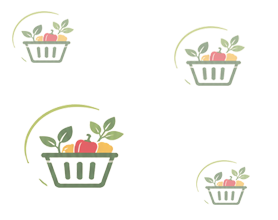
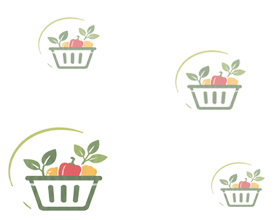
Add files via upload

diff --git a/info.html b/info.html
@@ -6,14 +6,21 @@
 	<body style="background-color: #55A961; color: black">
 	<font face="Verdana" size="3" color="black";>
 	<p style="text-align: center;">
+	<body background="tlo_serwer.png">
 	<img src="logo.png" width="100%" height="auto" alt=""><BR><BR>
 	
-	<! --------------- NEWSY ------------------->
-	<img src="about_news4.png" width="100%" height="auto" alt="news"></A><BR>
-	<img src="about_news3.png" width="100%" height="auto" alt="news"></A><BR>
-	<img src="about_news2.png" width="100%" height="auto" alt="news"></A><BR>
-	<img src="about_news1.png" width="100%" height="auto" alt="news"><BR><BR>
+	
+	
+	
+	
+	
+	<img src="info1.png" width="100%" height="auto" border="0"><BR>
+
+
+
+
+
+	<BR><BR><BR><BR><BR><BR><BR><BR><BR><BR><BR><BR><BR><BR><BR><BR><BR><BR><BR><BR><BR>
 
 </body>
 </html>
-